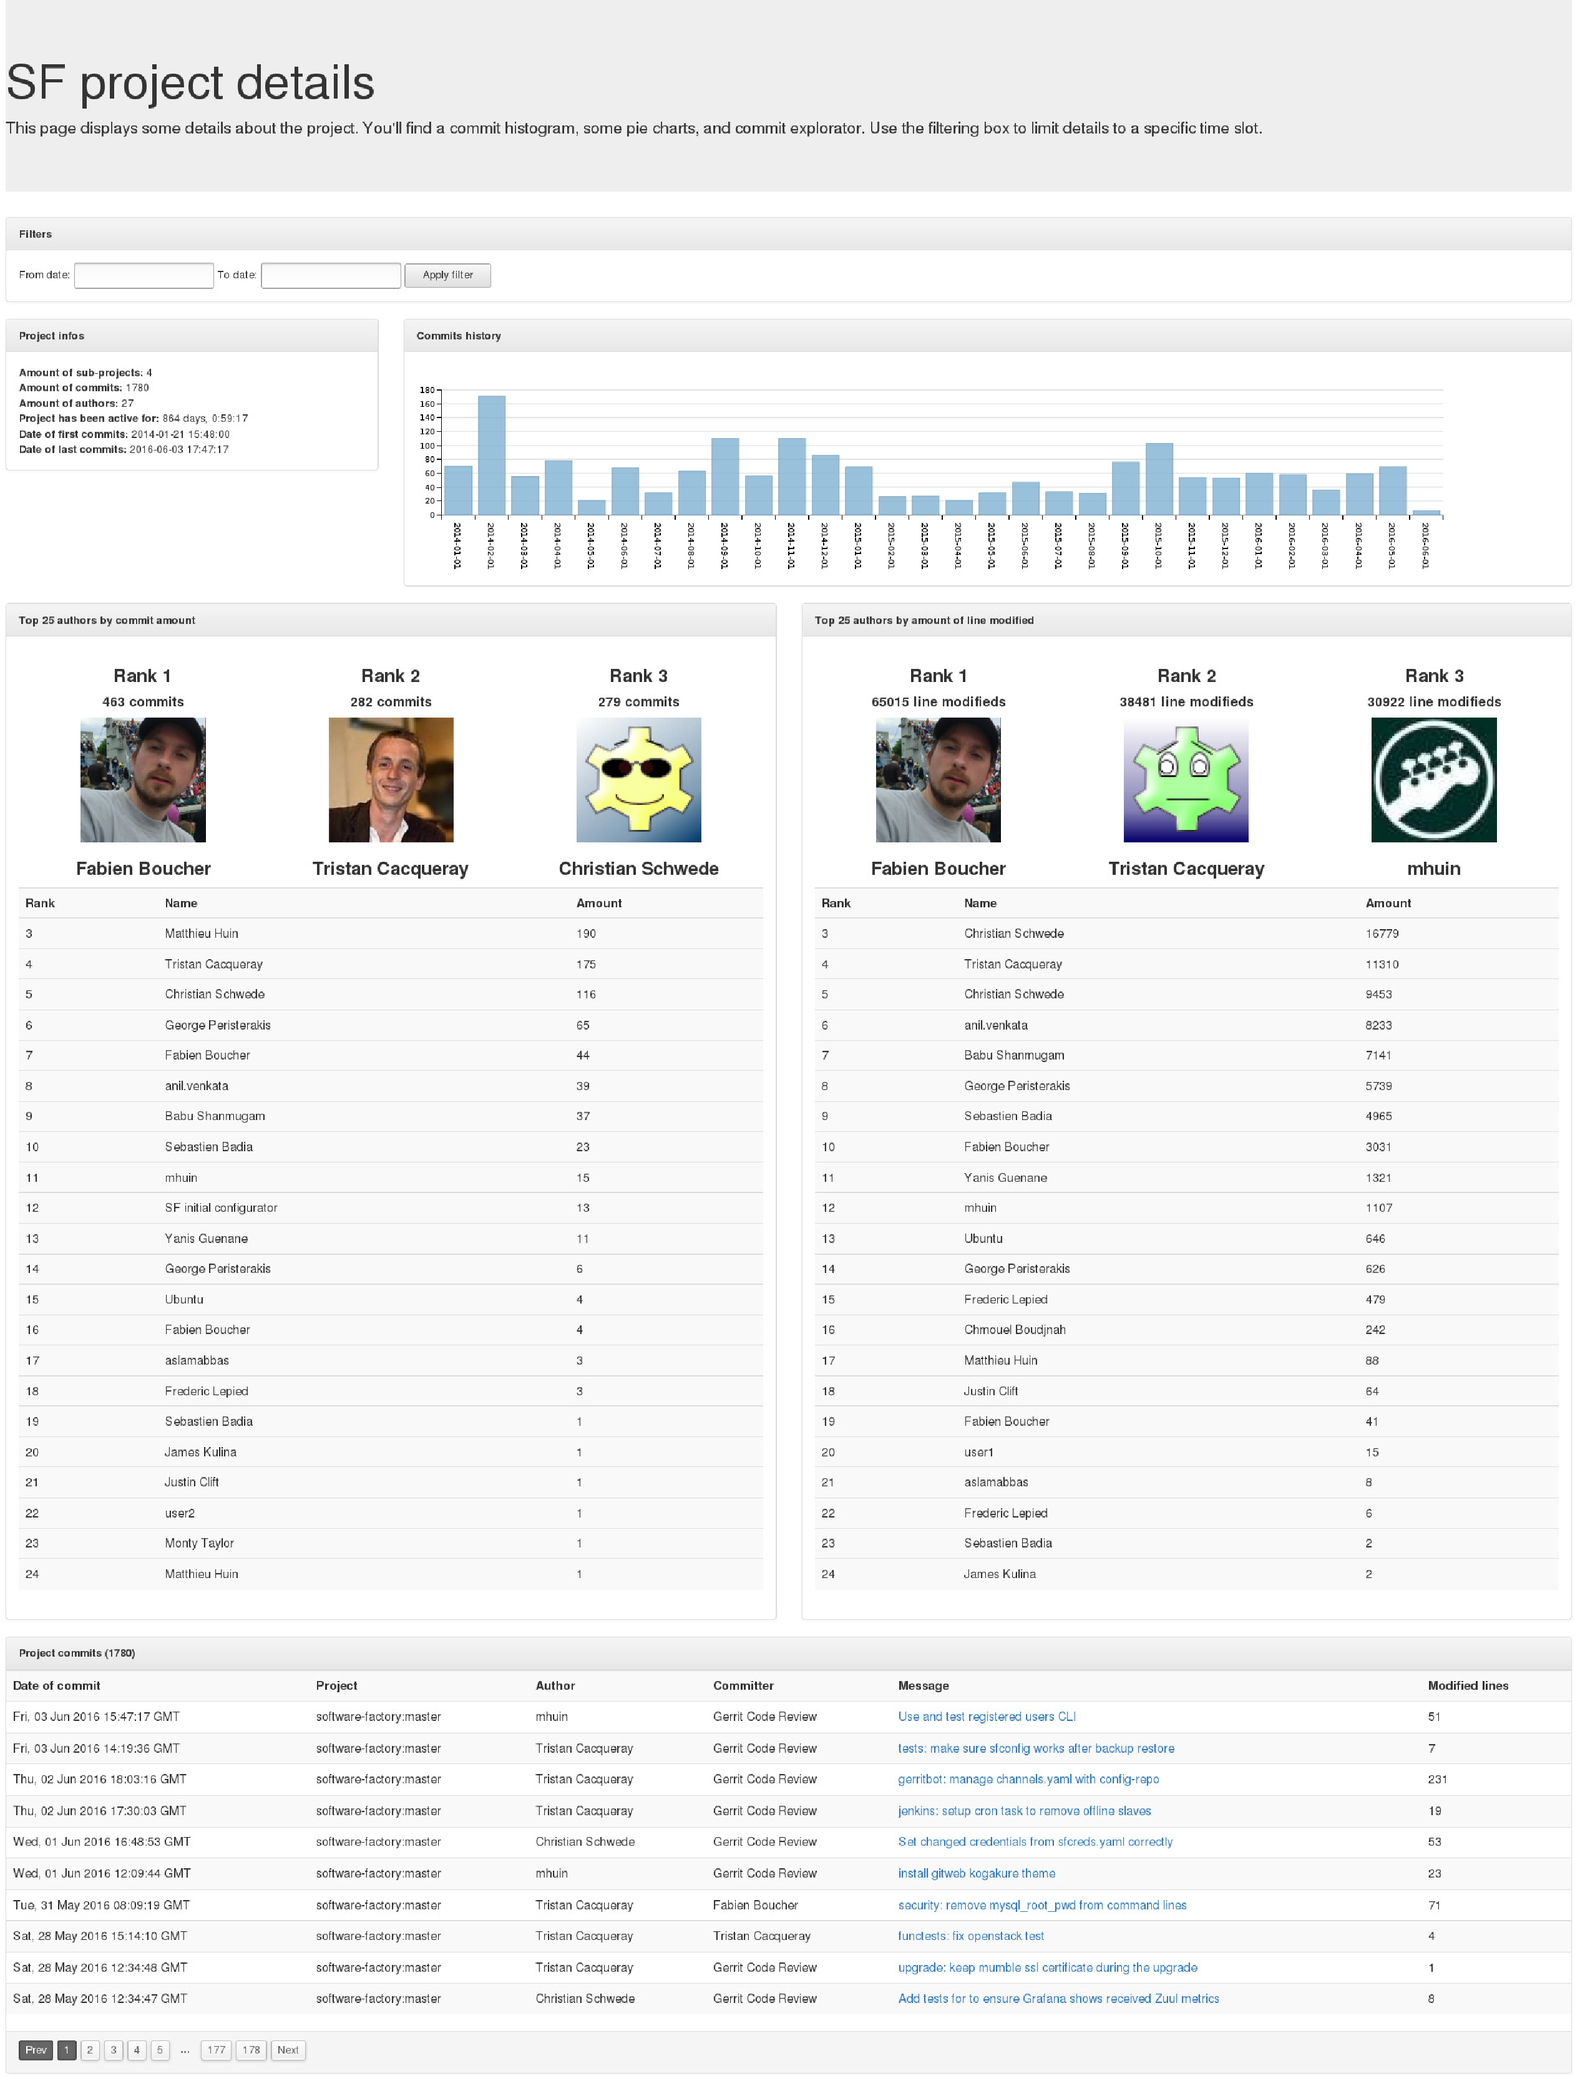
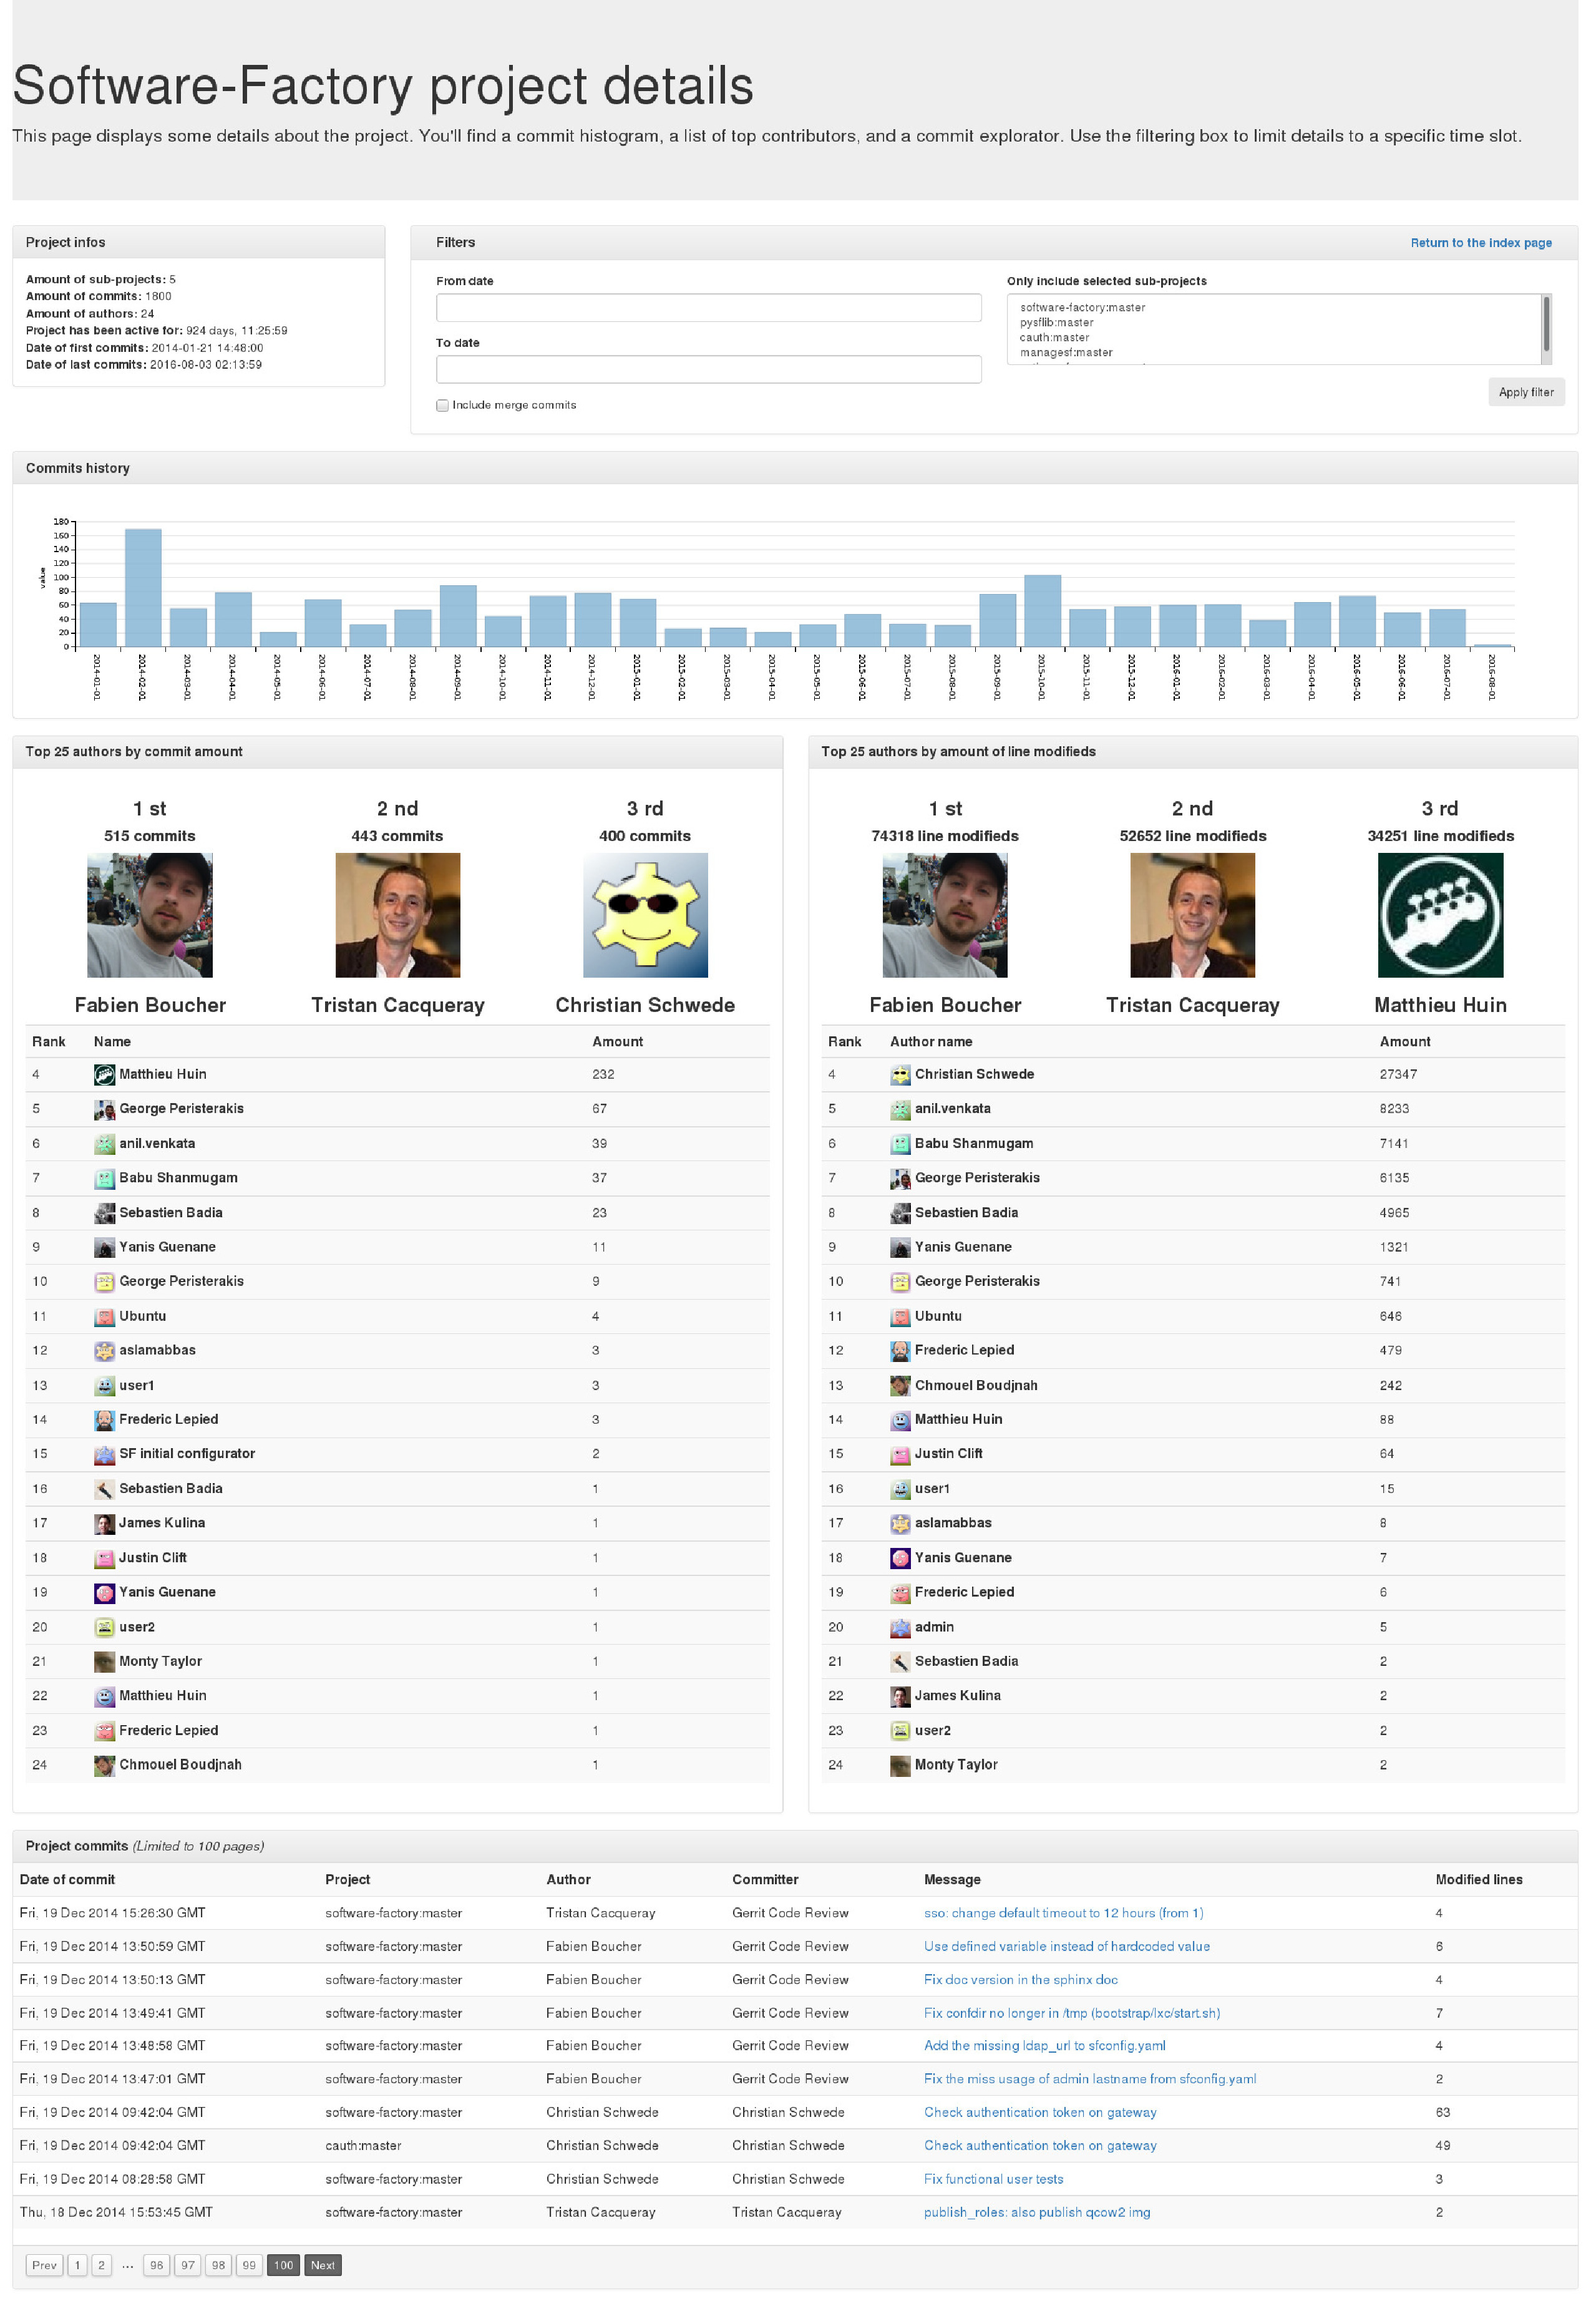
Improve contribution section and update screenshot

diff --git a/setup.py b/setup.py
@@ -18,7 +18,7 @@ import glob
 from distutils.core import setup
 
 setup(name='repoxplorer',
-      version='0.1',
+      version='0.4',
       description='Git repositories statistics and charts.',
       author='Fabien Boucher',
       author_email='fabien.dot.boucher@gmail.com',

diff --git a/README.md b/README.md
@@ -132,6 +132,7 @@ Edit ~/repoxplorer/local/share/repoxplorer/idents.yaml
 ## Run tests
 
 ```Shell
+./bin/el-start.sh
 tox
 ```
 
@@ -145,3 +146,23 @@ Look at the feature requests list on the Github issue tracker:
 If you find an issue please fill a bug report here:
 
 - [Report an issue](https://github.com/morucci/repoxplorer/issues/new)
+
+RepoXplorer is hosted on this Gerrit instance [Software Factory] (http://softwarefactory-project.io)
+a contribution should be done via Gerrit instead of using the Pull Request system of Github.
+
+If you wante to help by contributing on the code:
+
+```Shell
+git clone http://softwarefactory-project.io/r/repoxplorer
+git review -s # You should have login on Software Factory using you Github identity first
+```
+
+Your local copy is now configured. Please read the following instructions to
+learn about git review sub-command [git-review] (http://softwarefactory-project.io/docs/submitpatches.html#initialize-the-git-remote-with-git-review).
+
+```
+# make some changes
+git add -a
+git commit # local commit your changes
+git review # propose your changes on Gerrit
+```
